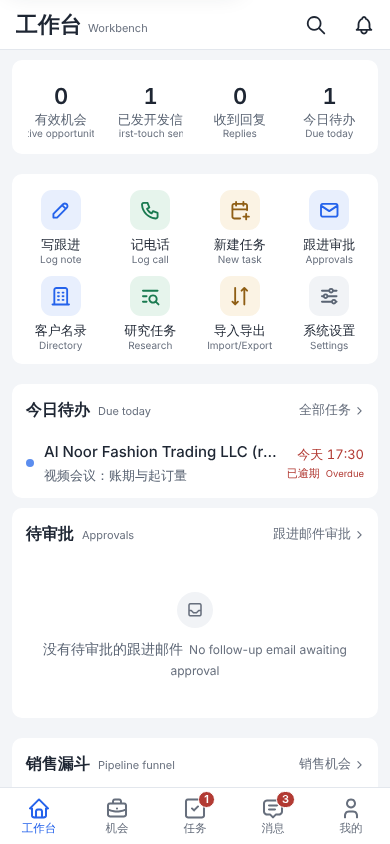
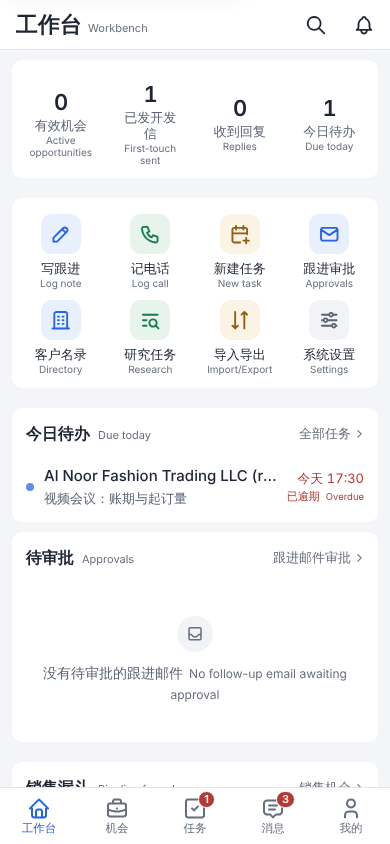
fix(ui): let phone KPI English labels wrap instead of clipping
Claude-Session: https://claude.ai/code/session_01MTwsygBFjegEsGecaaNeJn

diff --git a/services/demo-dashboard/public/ui/v4/app.css b/services/demo-dashboard/public/ui/v4/app.css
@@ -3566,7 +3566,7 @@ button.row:hover, a.row:hover { background: var(--surface-2); text-decoration: n
   .v4-overview .kpi .val small, .v4-overview .kpi-sub { display: none; }
   .v4-overview .kpi .lab { margin-top: 3px; font-size: 13px; line-height: 1.25; }
   .v4-overview .kpi .lab .bi { display: flex; flex-direction: column; align-items: center; }
-  .v4-overview .kpi .lab .bi > [lang="en"] { margin: 0; font-size: 10px; white-space: nowrap; }
+  .v4-overview .kpi .lab .bi > [lang="en"] { margin: 0; font-size: 10px; line-height: 1.2; white-space: normal; text-align: center; }
   .v4-overview .card { margin: 10px 12px 0; border: 0; border-radius: 10px; }
   .v4-overview .grid2, .v4-overview .grid2b, .v4-overview .grid3 { gap: 0; }
   .m-card { display: block; margin: 10px 12px 0; border-radius: 10px; background: var(--surface); }
